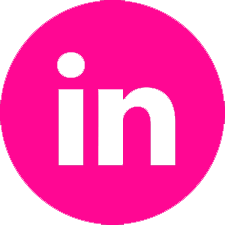
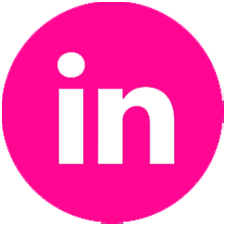
added working social buttons

diff --git a/src/components/NavBar.js b/src/components/NavBar.js
@@ -24,10 +24,18 @@ const NavBar = () => {
     </div>
     <div className="SocialBar">
       <ul>
-        <li><a href="https://www.linkedin.com/in/sarahvgraham/">
-         <img alt="LinkedIn" src="/LinkedIn.png"></img></a></li>
-        <li></li>
-        <li></li>
+        <li>
+          <a href="https://www.linkedin.com/in/sarahvgraham/">
+          <img alt="LinkedIn" src="/LinkedIn.png"></img></a>
+        </li>
+        <li>
+        <a href="https://github.com/sarahgraham1982">
+          <img alt="GitHub" src="/GitHub.png"></img></a>
+        </li>
+        <li>
+        <a href="https://www.instagram.com/sarahinlalaland">
+          <img alt="Instagram" src="/Instagram.png"></img></a>
+        </li>
       </ul>
     </div>
   </>

diff --git a/src/components/NavBar.css b/src/components/NavBar.css
@@ -1,17 +1,11 @@
-.NavBar {
-    
+.NavBar {    
     position: fixed; 
     width: 100%;
     overflow: hidden;
     display: inline-block;
-    float: left;
+    
     
 }
-    
-/* }
-li {
-    list-style-type: none;
-/* } */ 
 
 ul {
     list-style: none;
@@ -26,7 +20,7 @@ ul li a{
     
 }
 
-ul li a:hover{
+.NavBar ul li a:hover{
     background-color:rgb(255, 0, 149);
     color: #fff;
 }
@@ -37,18 +31,19 @@ ul li a:hover{
 }
 
 
+
+
 .SocialBar {
     position: fixed; 
     width: 100%;
     overflow: hidden;
-    display: inline-block;
-    float: right;
+
     
 }
 
-ul {
-    list-style: none;
-    display: flex;
-    justify-content: left;
+.SocialBar img {
+    height: 30px ;
+    width: 30px;
+    margin-right: -20px;
 }
 

diff --git a/src/components/Home.js b/src/components/Home.js
@@ -9,7 +9,7 @@ const Home = () => {
       <div className="left">
         <div className="welcome-text">
           <h1>Hi! I'm Sarah,</h1>
-          <p>and this is Oscar, but he doesn't code...<strong>yet!</strong></p>
+          <p>and this is Oscar, but he can't code...<strong>yet!</strong></p>
         </div>
 
         <div className="button">

diff --git a/src/components/Home.css b/src/components/Home.css
@@ -1,5 +1,6 @@
 .welcome-container {
     padding-top: 65px; 
+    padding-bottom: 25px;
     display: flex;
     flex-direction: row;
     width: 100%;

diff --git a/src/components/Footer.css b/src/components/Footer.css
@@ -7,5 +7,7 @@
     background: grey;
     text-decoration: none;
     color: white; 
+    
+    
 }
 
